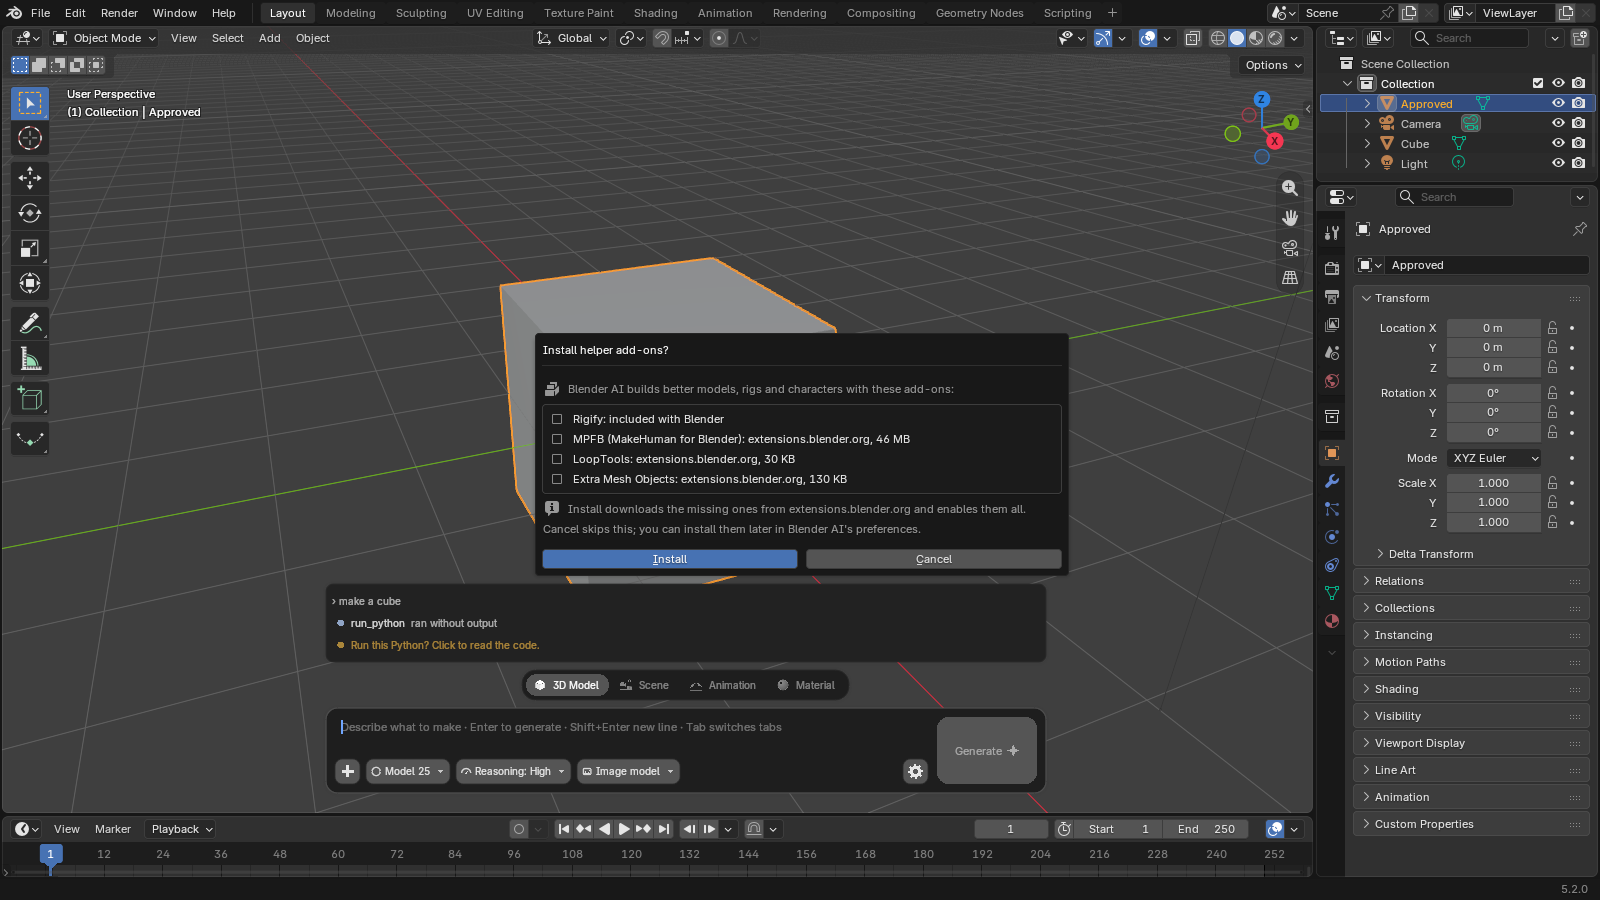
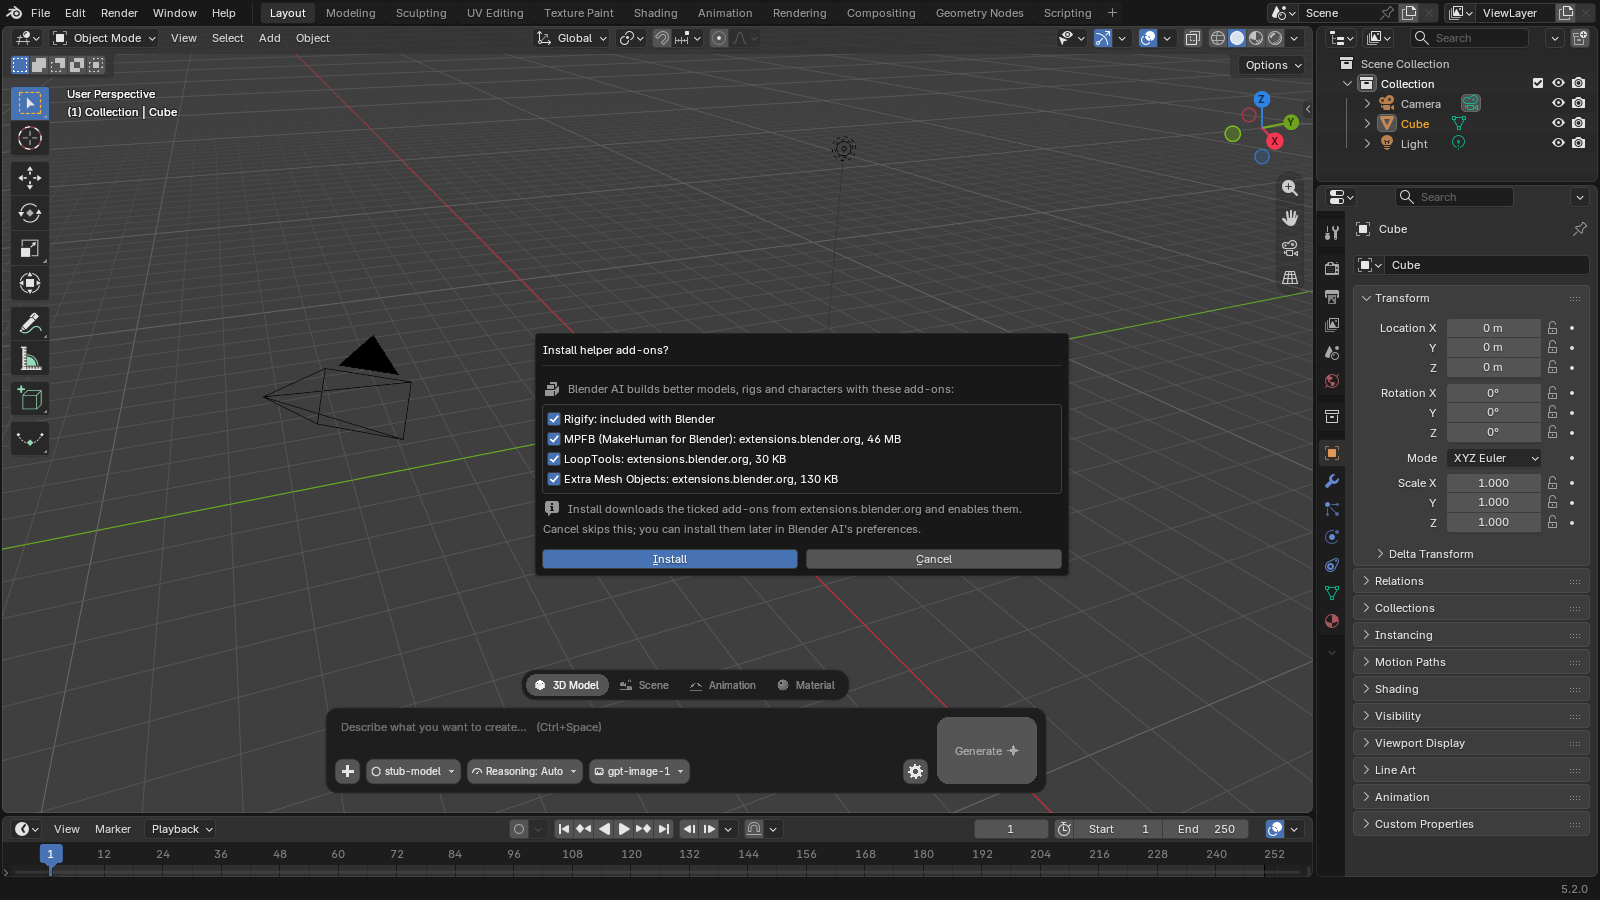
fix: install helper add-ons per package, with checkboxes
Installing helpers failed with "No installable packages marked" whenever the
Get Extensions list had a search typed in (the README tells users to search
for Blender AI): in a window, extensions.package_install_marked drops every
marked package that the list hides. Install each package with
extensions.package_install(repo_directory, pkg_id, enable_on_install=True)
instead, queued one after another as Blender's modal jobs, and sync the
listing by repository directory rather than index. Operator errors now come
back as a readable message instead of a traceback.

The helper list in the dialog was icons that looked like checkboxes; it now
has real toggles, so users choose which helpers to install. Helpers that are
already enabled show as ticked and greyed out.

diff --git a/src/integrations/installer.py b/src/integrations/installer.py
@@ -2,6 +2,7 @@ from __future__ import annotations
 
 import time
 from collections.abc import Callable
+from typing import Any
 
 import addon_utils
 import bpy
@@ -11,61 +12,82 @@ from . import registry
 REMOTE_HOST = "extensions.blender.org"
 WATCH_SECONDS = 900
 
+Done = Callable[[list[str], list[str]], None]
+
 
 class InstallError(RuntimeError): ...
 
 
-def remote_repo_index() -> int | None:
-    repos = bpy.context.preferences.extensions.repos
-    return next((i for i, repo in enumerate(repos) if repo.enabled and repo.use_remote_url and REMOTE_HOST in repo.remote_url), None)
+def remote_repo() -> Any:
+    return next((r for r in bpy.context.preferences.extensions.repos if r.enabled and r.use_remote_url and REMOTE_HOST in r.remote_url), None)
 
 
-def enable_installed() -> list[str]:
+def enable_installed(ids: set[str]) -> list[str]:
     enabled = []
     for helper in registry.missing():
-        module = registry.installed_module(helper.id)
+        module = registry.installed_module(helper.id) if helper.id in ids else None
         if module is not None and addon_utils.enable(module, default_set=True, persistent=True) is not None:
             enabled.append(helper.name)
     return enabled
 
 
-def downloads() -> list[registry.Helper]:
-    return [h for h in registry.missing() if h.pkg_id and registry.installed_module(h.id) is None]
+def downloads(ids: set[str] | None = None) -> list[registry.Helper]:
+    return [h for h in registry.missing() if h.pkg_id and registry.installed_module(h.id) is None and (ids is None or h.id in ids)]
 
 
-def install(interactive: bool) -> tuple[list[str], list[str]]:
-    enabled = enable_installed()
-    pending = downloads()
-    if not pending:
-        return enabled, []
-    if not bpy.app.online_access:
-        raise InstallError("Online access is off: turn it on in Preferences > System > Network, then install again.")
-    index = remote_repo_index()
-    if index is None:
-        raise InstallError(f"The {REMOTE_HOST} repository is off or missing: turn it on in Preferences > Get Extensions > Repositories.")
-    if "FINISHED" not in bpy.ops.extensions.repo_sync(repo_index=index):
-        raise InstallError(f"Couldn't refresh the {REMOTE_HOST} listing. Check your connection and try again.")
-    for helper in pending:
-        bpy.ops.extensions.package_mark_set(pkg_id=helper.pkg_id, repo_index=index)
-    result = bpy.ops.extensions.package_install_marked("INVOKE_DEFAULT" if interactive else "EXEC_DEFAULT", enable_on_install=True)
-    if not result & {"FINISHED", "RUNNING_MODAL"}:
-        for helper in pending:
-            bpy.ops.extensions.package_mark_clear(pkg_id=helper.pkg_id, repo_index=index)
-        raise InstallError("Blender couldn't start the install; see the Info editor for details.")
-    return enabled, [h.name for h in pending]
+def _install_package(directory: str, pkg_id: str, interactive: bool) -> None:
+    window = (bpy.context.window or next(iter(bpy.context.window_manager.windows), None)) if interactive else None
+    try:
+        with bpy.context.temp_override(**({"window": window} if window else {})):
+            bpy.ops.extensions.package_install("INVOKE_DEFAULT" if window else "EXEC_DEFAULT", repo_directory=directory, pkg_id=pkg_id, enable_on_install=True)
+    except RuntimeError as exc:
+        raise InstallError(str(exc).removeprefix("Error: ").strip()) from exc
 
 
 def _install_running() -> bool:
     return any(op.bl_idname.startswith("EXTENSIONS_OT") for window in bpy.context.window_manager.windows for op in window.modal_operators)
 
 
-def watch(on_done: Callable[[list[str]], None]) -> None:
+def install(ids: set[str], interactive: bool, on_done: Done | None = None) -> tuple[list[str], list[str]]:
+    addon_utils.modules(refresh=True)
+    enabled = enable_installed(ids)
+    pending = downloads(ids)
+    if not pending:
+        return enabled, []
+    if not bpy.app.online_access:
+        raise InstallError("Online access is off: turn it on in Preferences > System > Network, then install again.")
+    repo = remote_repo()
+    if repo is None:
+        raise InstallError(f"The {REMOTE_HOST} repository is off or missing: turn it on in Preferences > Get Extensions > Repositories.")
+    try:
+        bpy.ops.extensions.repo_sync(repo_directory=repo.directory)
+    except RuntimeError as exc:
+        raise InstallError(f"Couldn't refresh the {REMOTE_HOST} listing: {exc}") from exc
+    if interactive:
+        _queue(repo.directory, pending, on_done or (lambda _missing, _errors: None))
+    else:
+        for helper in pending:
+            _install_package(repo.directory, helper.pkg_id, False)
+    return enabled, [h.name for h in pending]
+
+
+def _queue(directory: str, helpers: list[registry.Helper], on_done: Done) -> None:
     deadline = time.monotonic() + WATCH_SECONDS
+    queue = list(helpers)
+    errors: list[str] = []
 
     def tick() -> float | None:
-        if _install_running() and time.monotonic() < deadline:
-            return 1.0
-        on_done([h.name for h in registry.missing()])
+        if time.monotonic() < deadline and _install_running():
+            return 0.5
+        if time.monotonic() < deadline and queue:
+            helper = queue.pop(0)
+            try:
+                _install_package(directory, helper.pkg_id, True)
+            except InstallError as exc:
+                errors.append(f"{helper.name}: {exc}")
+            return 0.5
+        missing = {h.id for h in registry.missing()}
+        on_done([h.name for h in helpers if h.id in missing], errors)
         return None
 
-    bpy.app.timers.register(tick, first_interval=1.0)
+    bpy.app.timers.register(tick, first_interval=0.1)

diff --git a/src/ui/dialogs.py b/src/ui/dialogs.py
@@ -3,7 +3,7 @@ from __future__ import annotations
 from typing import Any
 
 import bpy
-from bpy.props import StringProperty
+from bpy.props import BoolProperty, StringProperty
 
 from .. import state
 from ..agent.messages import Phase
@@ -127,11 +127,11 @@ def open_helpers_prompt_later() -> None:
         bpy.app.timers.register(open_helpers_prompt, first_interval=1.5)
 
 
-def _helpers_finished(missing: list[str]) -> None:
+def _helpers_finished(missing: list[str], errors: list[str]) -> None:
     session = state.get().session
     if session is not None:
-        text = f"Couldn't install {', '.join(missing)}; see the Info editor." if missing else "Helper add-ons installed and enabled."
-        session.notify(text, error=bool(missing))
+        reason = f": {errors[0]}" if errors else "; see the Info editor."
+        session.notify(f"Couldn't install {', '.join(missing)}{reason}" if missing else "Helper add-ons installed and enabled.", error=bool(missing))
     for window in bpy.context.window_manager.windows:
         for area in window.screen.areas:
             area.tag_redraw()
@@ -143,9 +143,17 @@ class BLENDER_AI_OT_install_helpers(bpy.types.Operator):
     bl_description = "Install and enable the add-ons Blender AI builds with: Rigify, MPFB, LoopTools and Extra Mesh Objects"
     bl_options = {"INTERNAL"}
 
+    use_rigify: BoolProperty(name="Rigify", default=True, options={"SKIP_SAVE"})
+    use_mpfb: BoolProperty(name="MPFB", default=True, options={"SKIP_SAVE"})
+    use_looptools: BoolProperty(name="LoopTools", default=True, options={"SKIP_SAVE"})
+    use_extra_objects: BoolProperty(name="Extra Mesh Objects", default=True, options={"SKIP_SAVE"})
+
     @classmethod
     def poll(cls, context: Any) -> bool:
         return bool(helpers.missing())
+
+    def selected(self) -> set[str]:
+        return {h.id for h in helpers.missing() if getattr(self, f"use_{h.id}")}
 
     def invoke(self, context: Any, event: Any) -> set[str]:
         wm = context.window_manager
@@ -161,9 +169,11 @@ class BLENDER_AI_OT_install_helpers(bpy.types.Operator):
         for helper in helpers.HELPERS.values():
             ready = helpers.enabled_module(helper.id) is not None
             source = "included with Blender" if helper.bundled else f"extensions.blender.org, {helper.size}"
-            col.label(text=f"{helper.name}: {'enabled' if ready else source}", icon="CHECKBOX_HLT" if ready else "CHECKBOX_DEHLT")
+            row = col.row()
+            row.enabled = not ready
+            row.prop(self, f"use_{helper.id}", text=f"{helper.name}: {'enabled' if ready else source}")
         col = layout.column(align=True)
-        col.label(text="Install downloads the missing ones from extensions.blender.org and enables them all.", icon="INFO")
+        col.label(text="Install downloads the ticked add-ons from extensions.blender.org and enables them.", icon="INFO")
         col.label(text="Cancel skips this; you can install them later in Blender AI's preferences.")
 
     def execute(self, context: Any) -> set[str]:
@@ -172,16 +182,19 @@ class BLENDER_AI_OT_install_helpers(bpy.types.Operator):
         prefs = _prefs()
         if prefs is not None:
             prefs.helpers_prompted = True
+        ids = self.selected()
+        if not ids:
+            self.report({"INFO"}, "Nothing ticked to install.")
+            return {"CANCELLED"}
         try:
-            enabled, downloading = installer.install(interactive=context.window is not None)
+            enabled, downloading = installer.install(ids, interactive=context.window is not None, on_done=_helpers_finished)
         except installer.InstallError as exc:
             self.report({"ERROR"}, str(exc))
             return {"CANCELLED"}
         if downloading:
-            installer.watch(_helpers_finished)
             self.report({"INFO"}, (f"Enabled {', '.join(enabled)}. " if enabled else "") + f"Installing {', '.join(downloading)}…")
         else:
-            _helpers_finished([h.name for h in helpers.missing()])
+            _helpers_finished([h.name for h in helpers.missing() if h.id in ids], [])
         return {"FINISHED"}
 
     def cancel(self, context: Any) -> None:

diff --git a/tests/run_tools.py b/tests/run_tools.py
@@ -457,13 +457,13 @@ def helpers_installer_enables_and_explains() -> None:
     pending = [h.name for h in installer.downloads()]
     if pending and not bpy.app.online_access:
         try:
-            installer.install(interactive=False)
+            installer.install(set(integrations.HELPERS), interactive=False)
         except installer.InstallError as exc:
             assert "Online access is off" in str(exc), exc
         else:
             raise AssertionError(f"downloading {pending} offline should fail with a clear message")
     elif not pending:
-        installer.install(interactive=False)
+        installer.install(set(integrations.HELPERS), interactive=False)
     ready = {h.id for h in integrations.HELPERS.values()} - {h.id for h in integrations.missing()}
     installed = {h.id for h in integrations.HELPERS.values() if integrations.installed_module(h.id)}
     assert installed <= ready, f"installed helpers must end up enabled: {installed - ready}"

diff --git a/README.md b/README.md
@@ -102,8 +102,8 @@ over it to upgrade.
 
 With online access on, Blender AI asks once whether to install its helper add-ons: Rigify (included with
 Blender), MPFB, LoopTools and Extra Mesh Objects. They are downloaded through Blender's own extension
-system from extensions.blender.org (about 46 MB, mostly MPFB). You can skip the prompt and install them later from the
-add-on's preferences.
+system from extensions.blender.org (about 46 MB, mostly MPFB). Untick any you don't want, then click
+**Install**. You can skip the prompt and install them later from the add-on's preferences.
 
 ![Install helper add-ons](docs/screenshots/helpers_dialog.png)
 
@@ -246,7 +246,7 @@ The essentials are provider, URL, key and model. Everything else has defaults un
 | Prompt bar shortcut | Ctrl+Space | Rebindable |
 
 **Helper add-ons** lists Rigify, MPFB, LoopTools and Extra Mesh Objects with their status;
-**Install helper add-ons** installs and enables any that are missing.
+**Install helper add-ons** opens the same list, where you tick the ones to install.
 
 Environment variables `OPENAI_API_KEY`, `OPENAI_BASE_URL`, `ANTHROPIC_API_KEY` and `ANTHROPIC_BASE_URL`
 are used as fallbacks. The complete tool reference is in [docs/tools.md](docs/tools.md).
